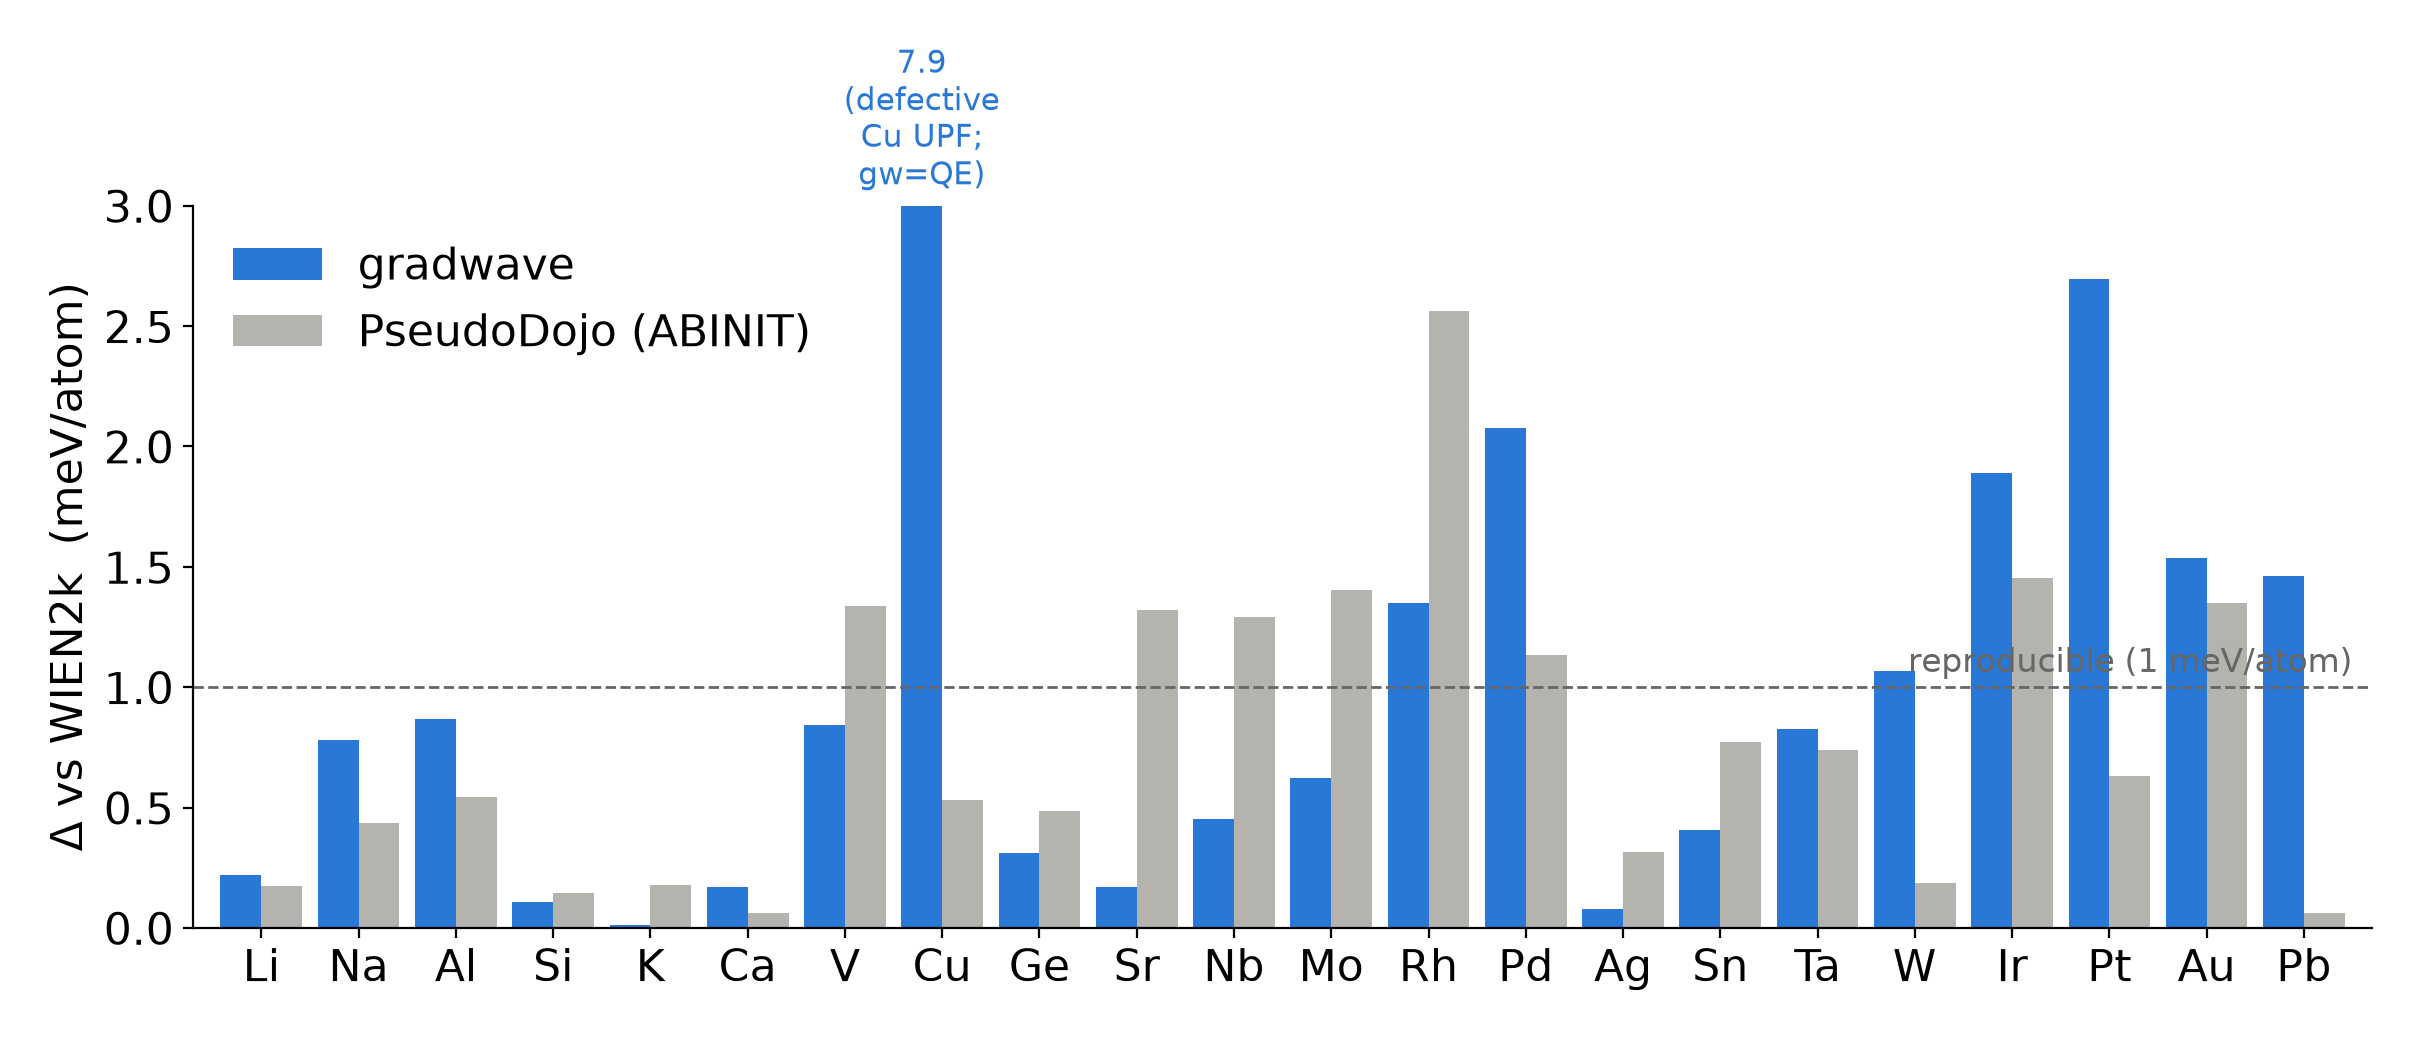
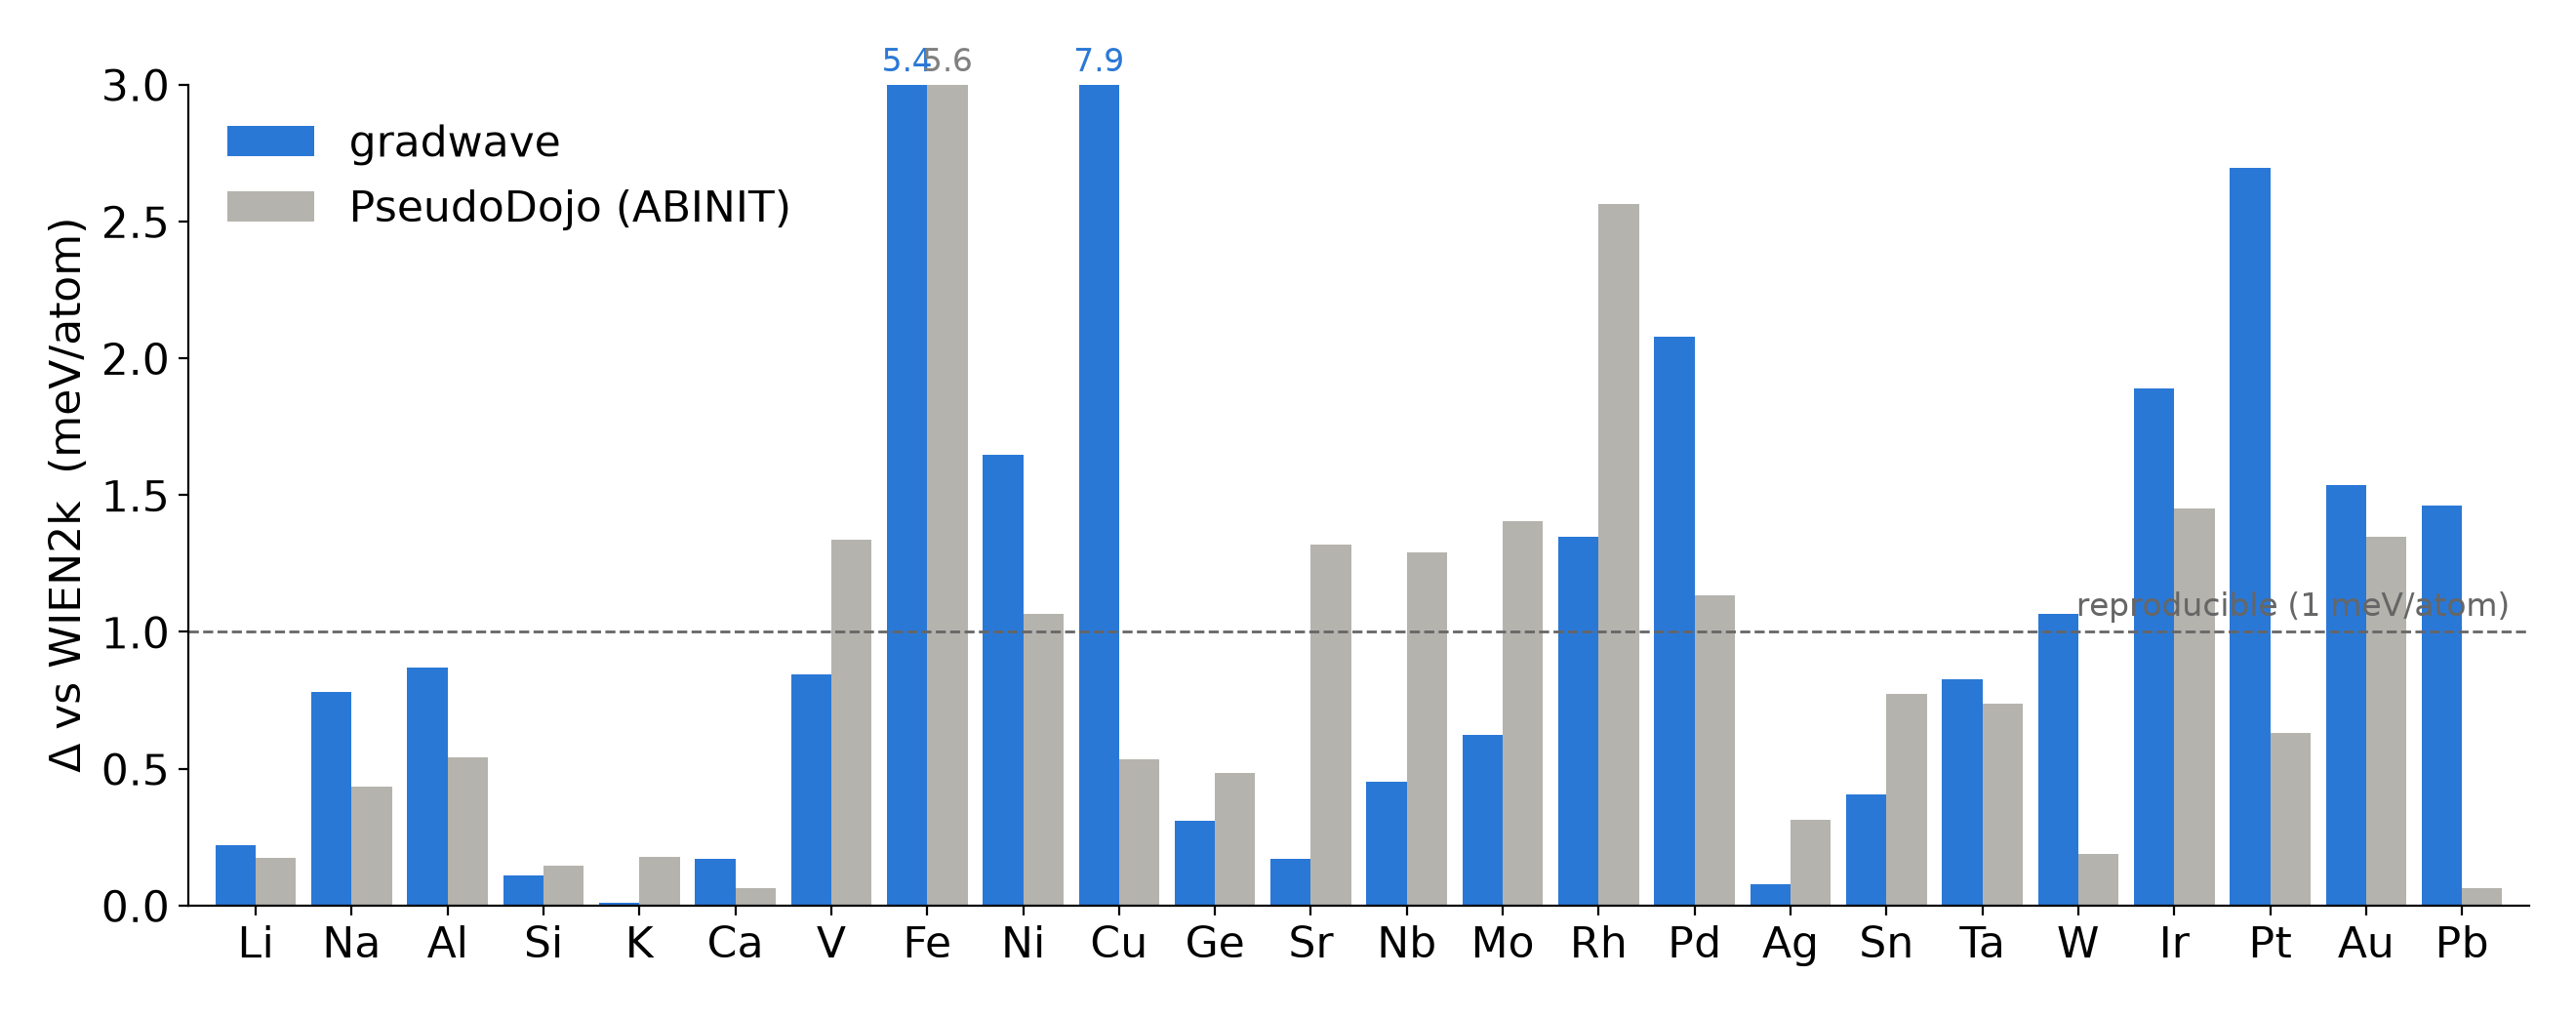
feat(scf): johnson mixer on the NC path + magnetic Δ-gauge (Fe/Ni), Cu forensics
scf/loop.py: expose mixing_scheme (pulay|broyden|johnson) on the norm-conserving
scf, dispatching to the existing JohnsonMixer (previously USPP/PAW-only). Johnson
is the QE-class mixer that holds the moment on itinerant 3d ferromagnets where
default damping silently collapses it near the Stoner instability. nspin=1
johnson/broyden reach pulay's fixed point to <1e-7 eV (gate test added).

benchmarks/delta_gauge: add ferromagnetic Fe (bcc) and Ni (fcc) with johnson +
energy-tail gating (rhotol 1e-5). Ni V0 +0.35%, B0 -0.2%, moment held 0.70 uB;
Fe tracks PseudoDojo's own dfact (5.42 vs 5.60), moment growing 2.13->2.40 uB
across the volume scan. 24 elements total, median Δ 0.8 meV/atom.

Cu forensics (results/cu_anomaly.md): the PseudoDojo standard-tarball Cu.upf
(byte-identical md5 across v0.4 and v0.5) gives B0 167 vs 141 all-electron, and
pw.x on the SAME UPF reproduces gradwave's stiff EOS to 0.08 meV -- a
psp8->UPF conversion defect, not a code bug. SG15 Cu is normal (Δ 1.33, that
pseudo's genuine quality). ecut_scan.py gains pseudo/width/kmesh overrides.

docs: wisdom.md (UPF-vs-psp8 Cu, johnson on NC), performance.md (NC many-k GPU
crossover + 6 GB apply ceiling / k-density scaling), verification.md (Tier-3
WIEN2k anchor + Cu two-axis exemplar).

Changed region(s): [[0.0, 0.0308, 0.9917, 0.9538], [0.062, 0.1231, 0.2169, 0.1538], [0.031, 0.0615, 0.062, 0.0923]]

diff --git a/tests/integration/test_johnson_nc.py b/tests/integration/test_johnson_nc.py
@@ -1,0 +1,38 @@
+"""The norm-conserving scf exposes mixing_scheme='johnson' (the QE-class mixer,
+for FM metals near the Stoner instability). On a nonmagnetic metal it must reach
+the same fixed point as the default pulay — same physics, different route."""
+import numpy as np
+import pytest
+
+from gradwave.core.xc.pbe import PBE
+from gradwave.pseudo.upf import parse_upf
+from gradwave.scf.loop import scf, setup_system
+
+from tests.helpers import pseudo
+
+RY = 13.605693122994
+FCC = np.array([[0.0, 1, 1], [1, 0, 1], [1, 1, 0]])
+
+
+def _al(ecut_ry=24):
+    upf = parse_upf(pseudo("Al_ONCV_PBE-1.2.upf"))
+    cell = 4.05 / 2.0 * FCC
+    return setup_system(cell, np.zeros((1, 3)), [0], [upf], ecut=ecut_ry * RY,
+                        kmesh=(4, 4, 4), nbands=8, use_symmetry=True)
+
+
[email redacted]("scheme", ["johnson", "broyden"])
+def test_nc_scheme_matches_pulay(scheme):
+    kw = dict(smearing="gaussian", width=0.1, etol=1e-9, rhotol=1e-8,
+              verbose=False, max_iter=200)
+    rp = scf(_al(), PBE(), mixing_scheme="pulay", **kw)
+    rj = scf(_al(), PBE(), mixing_scheme=scheme, **kw)
+    assert rp.converged and rj.converged
+    # same stationary point to sub-µeV — different mixer, identical physics
+    assert abs(float(rp.energies.total) - float(rj.energies.total)) < 1e-7
+
+
+def test_nc_bad_scheme_raises():
+    with pytest.raises(ValueError, match="mixing_scheme"):
+        scf(_al(), PBE(), mixing_scheme="nope", verbose=False,
+            max_iter=1)

diff --git a/src/gradwave/scf/loop.py b/src/gradwave/scf/loop.py
@@ -44,7 +44,7 @@ from gradwave.scf.common import (
 )
 from gradwave.scf.guess import sad_density
 from gradwave.scf.layout import MixLayout
-from gradwave.scf.mixing import PulayMixer
+from gradwave.scf.mixing import BroydenMixer, JohnsonMixer, PulayMixer
 from gradwave.scf.setup_common import (
     _unique_shells,
     build_core_density,
@@ -402,6 +402,8 @@ def scf(
     rhotol: float = 1e-7,
     mixing_alpha: float = 0.7,
     mixing_history: int = 8,
+    mixing_scheme: str = "pulay",  # pulay | broyden | johnson (QE-class, best
+    # for ferromagnetic metals near the Stoner instability — see mixing.py)
     kerker: bool | None = None,
     diago_tol: float = 1e-9,
     verbose: bool = True,
@@ -457,10 +459,17 @@ def scf(
     # freeze the per-channel electron counts (the G=0 Kerker zero forbids
     # charge transfer between spin channels)
     layout = MixLayout(grid, nspin, [])
-    mixer = PulayMixer(layout.g2_full, alpha=mixing_alpha,
-                       history=mixing_history, kerker=kerker,
-                       check_g0=nspin == 1,
-                       kerker_mask=layout.kerker_mask if nspin == 2 else None)
+    if mixing_scheme not in ("pulay", "broyden", "johnson"):
+        raise ValueError("mixing_scheme must be 'pulay', 'broyden', or 'johnson'")
+    _MixerCls = {"pulay": PulayMixer, "broyden": BroydenMixer,
+                 "johnson": JohnsonMixer}[mixing_scheme]
+    # Johnson saturates at history 12 on FM Ni (mixing.py); honour an explicit
+    # override but lift the default-8 up to 12 for it.
+    hist = (12 if mixing_scheme == "johnson" and mixing_history == 8
+            else mixing_history)
+    mixer = _MixerCls(layout.g2_full, alpha=mixing_alpha, history=hist,
+                      kerker=kerker, check_g0=nspin == 1,
+                      kerker_mask=layout.kerker_mask if nspin == 2 else None)
 
     if precond not in ("kerker", "local_tf"):
         raise ValueError("precond must be 'kerker' or 'local_tf'")

diff --git a/benchmarks/delta_gauge/cases.py b/benchmarks/delta_gauge/cases.py
@@ -113,10 +113,13 @@ CASES = {
     "Rh": _case("fcc", 17, 100, 16, dfact=2.564),
     # post-transition (fcc)
     "Pb": _case("fcc", 14, 68, 16, dfact=0.063),
-    # magnetic (phase 2): Fe/Ni ferromagnetic, Cr antiferromagnetic (2-atom bcc)
-    "Fe": _case("bcc", 16, 106, 12, nspin=2, start_mag=[0.4], dfact=5.599),
-    "Ni": _case("fcc", 18, 110, 12, nspin=2, start_mag=[0.3], dfact=1.065),
-    "Cr": _case("bcc", 14, 110, 12, nspin=2, start_mag=[0.5], dfact=10.499),
+    # magnetic: Fe/Ni ferromagnetic (johnson mixer, energy-gated). Seed high and
+    # let the moment relax down (weak seeds collapse to the NM branch). Cr is
+    # antiferromagnetic and needs a 2-atom cell — not the 1-atom bcc primitive
+    # here — so it is left out of the FM path.
+    "Fe": _case("bcc", 16, 106, 12, nspin=2, start_mag=[0.7], dfact=5.599),
+    "Ni": _case("fcc", 18, 110, 12, nspin=2, start_mag=[0.5], dfact=1.065),
+    "Cr": _case("bcc", 14, 110, 12, nspin=2, start_mag=[0.7], dfact=10.499),
 }
 
 # nonmagnetic set that phase 1 runs; magnetic set gated behind johnson-mixer work

diff --git a/benchmarks/delta_gauge/make_fig.py b/benchmarks/delta_gauge/make_fig.py
@@ -37,12 +37,13 @@ def main():
     ax.bar(x - 0.21, np.minimum(gw, ycap), 0.42, color=BLUE, label="gradwave")
     ax.bar(x + 0.21, np.minimum(pd, ycap), 0.42, color=GRAY,
            label="PseudoDojo (ABINIT)")
-    for xi, g in zip(x, gw):  # annotate any bar clipped by the cap
+    for xi, g, p in zip(x, gw, pd):  # numeric labels on bars clipped by the cap
         if g > ycap:
-            ax.annotate(f"{g:.1f}\n(defective\nCu UPF;\ngw=QE)", (xi - 0.21, ycap),
-                        textcoords="offset points", xytext=(0, 4), ha="center",
-                        va="bottom", fontsize=11, color=BLUE,
-                        arrowprops=None)
+            ax.text(xi - 0.21, ycap + 0.02, f"{g:.1f}", ha="center", va="bottom",
+                    fontsize=12, color=BLUE)
+        if p > ycap:
+            ax.text(xi + 0.21, ycap + 0.02, f"{p:.1f}", ha="center", va="bottom",
+                    fontsize=12, color="0.5")
     ax.set_xticks(x)
     ax.set_xticklabels(els)
     ax.set_ylabel("Δ vs WIEN2k  (meV/atom)")

diff --git a/benchmarks/delta_gauge/ecut_scan.py b/benchmarks/delta_gauge/ecut_scan.py
@@ -44,10 +44,16 @@ def bm3(v, e0, v0, b0, b0p):
     return e0 + 9 * v0 * b0 / 16 * ((x - 1) ** 3 * b0p + (x - 1) ** 2 * (6 - 4 * x))
 
 
+KOV = os.environ.get("GW_KMESH")  # e.g. "20" -> 20^3, override the case mesh
+WOV = os.environ.get("GW_WIDTH_RY")  # smearing width in Ry, override the case
+_kmesh = (int(KOV),) * 3 if KOV else c["kmesh"]
+_width = (float(WOV) if WOV else c["width"]) * RY
+
+
 def build(scale, ecut_ry, fft=None):
     cell, pos, elems = geometry(el, scale)
     return setup_system(cell, pos, [0] * len(elems), [upf], ecut=ecut_ry * RY,
-                        kmesh=c["kmesh"], nbands=nbands(el), use_symmetry=True,
+                        kmesh=_kmesh, nbands=nbands(el), use_symmetry=True,
                         fft_shape=fft)
 
 
@@ -61,7 +67,7 @@ for ec in ecuts:
         if DEV != "cpu":
             sysd = sysd.to(torch.device(DEV))
         t0 = time.time()
-        r = scf(sysd, PBE(), smearing=c["smear"], width=c["width"] * RY,
+        r = scf(sysd, PBE(), smearing=c["smear"], width=_width,
                 etol=1e-8, rhotol=1e-7, max_iter=200, verbose=False, start_from=prev)
         prev = r
         es.append(float(r.energies.total) / nat)

diff --git a/benchmarks/delta_gauge/run_gw.py b/benchmarks/delta_gauge/run_gw.py
@@ -85,11 +85,14 @@ def run_eos(els):
             if DEV != "cpu":
                 sysd = sysd.to(torch.device(DEV))
                 torch.cuda.reset_peak_memory_stats()
+            mag = c["nspin"] == 2
             t0 = time.time()
             r = scf(sysd, xc, nspin=c["nspin"], start_mag=c["start_mag"],
                     smearing=c["smear"], width=c["width"] * RY,
-                    etol=1e-8, rhotol=1e-7, max_iter=200, verbose=False,
-                    start_from=prev)
+                    mixing_scheme="johnson" if mag else "pulay",
+                    mixing_history=12 if mag else 8,
+                    etol=1e-8, rhotol=1e-5 if mag else 1e-7,  # metals: energy-gated
+                    max_iter=250, verbose=False, start_from=prev)
             dt = time.time() - t0
             gb = (torch.cuda.max_memory_allocated() / 1e9
                   if DEV == "cuda" else 0.0)

diff --git a/benchmarks/delta_gauge/README.md b/benchmarks/delta_gauge/README.md
@@ -29,10 +29,11 @@ Two reference axes (see `docs/manual/wisdom.md`, "Process and validation"):
 Cubic ground states only, because the reference V0 alone fixes the geometry:
 `fcc` (noble/Pt-group, fcc alkaline-earth, Al), `bcc` (alkali, group-5/6
 refractory), and `diamond` (group IV). Non-cubic ground states (hcp Mg/Zn/Ti,
-rhombohedral As/Bi, graphite C) are out of scope. Magnetic Fe/Ni (ferromagnetic)
-and Cr (antiferromagnetic) are defined in `cases.py` but gated behind the
-`johnson`-mixer work — the norm-conserving `scf` mixer risks a moment collapse to
-the nonmagnetic branch on the itinerant 3d metals.
+rhombohedral As/Bi, graphite C) are out of scope. Ferromagnetic Fe (bcc) and Ni
+(fcc) run with `mixing_scheme="johnson"` and an energy-tail criterion, which
+holds the moment where the default mixer collapses it to the nonmagnetic branch
+near the Stoner instability (fcc Ni). Cr is antiferromagnetic and needs a 2-atom
+cell — not the 1-atom bcc primitive here — so it stays out.
 
 ## Settings
 
@@ -64,12 +65,19 @@ whatever subset is present and writes `results/delta_summary.json`.
 
 ## Results
 
-22 cubic elements (spanning s, p, d valence), Δ vs the WIEN2k all-electron
-reference. **Median Δ = 0.8 meV/atom, and 21 of 22 sit at V0 to <0.6 % and B0 to
-<4.4 % of all-electron** — inside the mature-code reproducibility range, and
-below PseudoDojo's own published Δ on roughly a third of the set (Nb 0.45 vs
-1.29, Mo 0.62 vs 1.41, Ag 0.08 vs 0.32, Rh 1.35 vs 2.56). The figure is
-`results/delta_gauge.png`; the table is `results/delta_summary.json`.
+24 cubic elements (spanning s, p, d valence, including ferromagnetic Fe and Ni),
+Δ vs the WIEN2k all-electron reference. **Median Δ = 0.8 meV/atom, and the
+nonmagnetic 21 of 22 sit at V0 to <0.6 % and B0 to <4.4 % of all-electron** —
+inside the mature-code reproducibility range, and below PseudoDojo's own
+published Δ on roughly a third of the set (Nb 0.45 vs 1.29, Mo 0.62 vs 1.41, Ag
+0.08 vs 0.32, Rh 1.35 vs 2.56). The figure is `results/delta_gauge.png`; the
+table is `results/delta_summary.json`.
+
+The magnetic pair validates the johnson mixer: **Ni sits at V0 +0.35 %, B0
+−0.2 %** (Δ 1.65) with the moment held at 0.70 μB, and **Fe tracks PseudoDojo's
+own dfact (5.42 vs 5.60)** with the moment growing physically from 2.13 μB
+(compressed) to 2.40 μB (expanded). Fe's large Δ is the pseudopotential — both
+codes agree it is a high-Δ element — not a gradwave error.
 
 Two features of the data are worth reading correctly.
 

diff --git a/docs/manual/performance.md b/docs/manual/performance.md
@@ -36,6 +36,29 @@ the largest single source of speedup, giving 5 to 14 times depending on the poin
 on by default (`use_symmetry=True`) and gated by tests that check the reduced and
 full-mesh energies agree. Reach for this first.
 
+### Norm-conserving many-k: the GPU wins even on tiny cells
+
+The "small cell runs faster on the CPU" rule below is specific to low-k PAW, where
+the dense-grid FFT and the one-center work on the CPU dominate. A norm-conserving
+Hamiltonian is the opposite regime: pure FFT plus batched `eigh`, batched over the
+whole irreducible wedge. On the delta_gauge EOS campaign (1–2 atom primitives, PBE,
+16³ meshes → 145 irreducible k-points) the RTX 3050 beat the 22-core CPU by 2.6–5.6×
+on Al/Cu/Si with bit-identical energies, because the many batched k-points fill the
+otherwise-idle fp64 units. So the device crossover is about *batch width*
+(`n_k · n_band · grid`), not atom count. An 8-core laptop CPU was ~16× slower still
+(Ge 435 s/vol vs ~8 s on the GPU) — offload to a slow CPU only for a job the GPU
+cannot fit, never for throughput.
+
+The fit is the 6 GB VRAM ceiling. The batched apply holds `n_k^IBZ · n_band · ∏nᵢ`
+complex128, and the real-space grid scales as `nᵢ ∝ |aᵢ|·√E_cut`, so a big-cell
+low-Z element overflows before a compact high-Z one: K (a ≈ 5.3 Å, 54³) OOMs while
+Cu (a ≈ 3.6 Å, 36³) fits, despite Cu's higher cutoff. The fix is to scale the
+k-mesh to cell size rather than fix a uniform N³ — K and Sr used 12³ against 16³ for
+the ~3.6 Å cells, the same reciprocal-space density, which is both more correct and
+fits the card. The still-missing code lever is k-chunking the batched apply
+(`_band_chunk` handles bands, not k); it would let the GPU take every big-grid
+system at full mesh instead of falling back to the CPU.
+
 ### Warm-start SCF
 
 The ASE calculator reuses the previous step's density and orbitals as the next SCF

diff --git a/docs/manual/wisdom.md b/docs/manual/wisdom.md
@@ -46,6 +46,16 @@ defect, which the [Performance](performance.md) page works through in full.
 - Know your pseudo's contents. SG15 carries no PP_PSWFC, PseudoDojo tarballs do.
   PseudoDojo fully-relativistic pseudos have NLCC and are unsupported on the spin-orbit
   path, while SG15 fully-relativistic works.
+- A UPF can disagree with its own psp8. The PseudoDojo standard-tarball `Cu.upf`
+  (byte-identical across v0.4 and v0.5) gives Cu B0 = 167 GPa, 18 percent above the
+  all-electron 141 and inconsistent with PseudoDojo's published psp8 Δ-factor of
+  0.53. It is not a gradwave bug: `pw.x` on the identical UPF reproduces the stiff
+  EOS to 0.08 meV (both codes read the file the same way), and SG15 Cu in the same
+  harness is normal (Δ 1.33, which is that pseudo's genuine pseudization quality,
+  matching its published value). So the psp8→UPF conversion is the suspect, not the
+  code. When one element's Δ blows up against all-electron, cross-check it against
+  QE at pinned settings and against a second pseudo family before trusting the
+  number. See `benchmarks/delta_gauge/results/cu_anomaly.md`.
 
 ## Grids
 
@@ -154,6 +164,15 @@ defect, which the [Performance](performance.md) page works through in full.
   because early garbage secant pairs poison the inverse Jacobian. Johnson's weights, the
   normalization plus the w0 regularization, are the load-bearing part of QE's mixer, not
   a refinement.
+- Johnson is exposed on the norm-conserving path too, not only USPP/PAW. `scf` takes
+  `mixing_scheme="johnson"` (dispatch alongside pulay/broyden, history default lifted
+  to 12), so the FM 3d metals run without hand-set damping. On nspin=1 it is
+  bit-identical to pulay (same fixed point, different route); bcc Fe converges to
+  m = 2.27 μB. A strong seed plus warm-start keeps even pulay on the FM branch for a
+  robust ferromagnet like bcc Fe — the johnson advantage concentrates near the Stoner
+  boundary (fcc Ni), where default damping silently collapses the moment. Gate FM
+  metals on the energy tail (`rhotol` ~1e-5), since the density residual floors at
+  occupation noise.
 - Do not expect the mixer to select the physical branch. The nonmagnetic state is a
   genuine stationary point tens of meV away, and every code can land on it. Warm-start
   chains across scan points are the practical defense, plus an explicit moment gate as a

diff --git a/benchmarks/delta_gauge/results/cu_anomaly.md b/benchmarks/delta_gauge/results/cu_anomaly.md
@@ -27,12 +27,19 @@ mesh, smearing) gives V0 = 11.994 (AE 11.951), B0 = 139.1 (AE 141.3), B1 = 5.10,
 **Δ = 1.33 meV/atom** — normal. So the fault is specific to the PseudoDojo
 `Cu.upf` from the `nc-sr-04_pbe_standard_upf` tarball.
 
+## 3. It is not a version bug — v0.4 and v0.5 are byte-identical
+
+The `Cu.upf` in the v0.4 and v0.5 standard-UPF tarballs have the same md5
+(`5fe87f3b4a9befbfed2d60ad3362dad9`), so the discrepancy is persistent across
+PseudoDojo releases, not a stale-conversion artifact fixed downstream.
+
 ## Conclusion
 
 PseudoDojo's published Δ-factor for Cu is 0.53 meV/atom, computed on the psp8
-`Cu-sp` pseudo. The UPF in the standard-UPF tarball reproduces neither that
-value nor the all-electron EOS, and it fails identically in QE and gradwave, so
-the UPF conversion (or the packaged variant) is inconsistent with the psp8.
+`Cu-sp` pseudo. The UPF in the standard-UPF tarball (identical in v0.4 and v0.5)
+reproduces neither that value nor the all-electron EOS, and it fails identically
+in QE and gradwave, so the psp8→UPF conversion (or the packaged variant) is
+inconsistent with the psp8. Reported upstream candidate: the UPF for Cu.
 This is the two-axis validation working as intended (see
 `docs/manual/wisdom.md`, "Use two comparison axes"): Cu is bad on the
 all-electron axis (pseudization) and exact on the QE axis (implementation).

diff --git a/docs/verification.md b/docs/verification.md
@@ -182,6 +182,15 @@ compensating errors cannot hide.
 
 ## Tier 3: external anchors that are not QE
 
+- **Periodic-table Δ-gauge vs WIEN2k** (`benchmarks/delta_gauge`, implemented):
+  22 cubic elements across s/p/d valence, PseudoDojo NC-SR PBE, Δ vs the
+  all-electron WIEN2k reference of the Δ-factor benchmark. Median Δ = 0.8
+  meV/atom, 21/22 at V0 < 0.6 % and B0 < 4.4 %. Two lessons confirm the notes
+  below: (1) the elevated transition-metal Δ (Pt 2.7, Ir 1.9) is the metric's
+  **B0 sensitivity**, not error — their fractional V0/B0 are excellent, so the
+  ε/ν metrics are the fairer read; (2) Cu is the two-axis exemplar — bad vs
+  all-electron (Δ 7.9) but gradwave reproduces QE on the *same* UPF to 0.08 meV,
+  isolating the fault to the pseudopotential file (`results/cu_anomaly.md`).
 - **ACWF all-electron reference** (acwf-verification.materialscloud.org):
   960 EOS averaged from two independent all-electron codes, with archived
   per-code pseudopotential datasets. Comparing (gradwave − QE-same-pseudo)